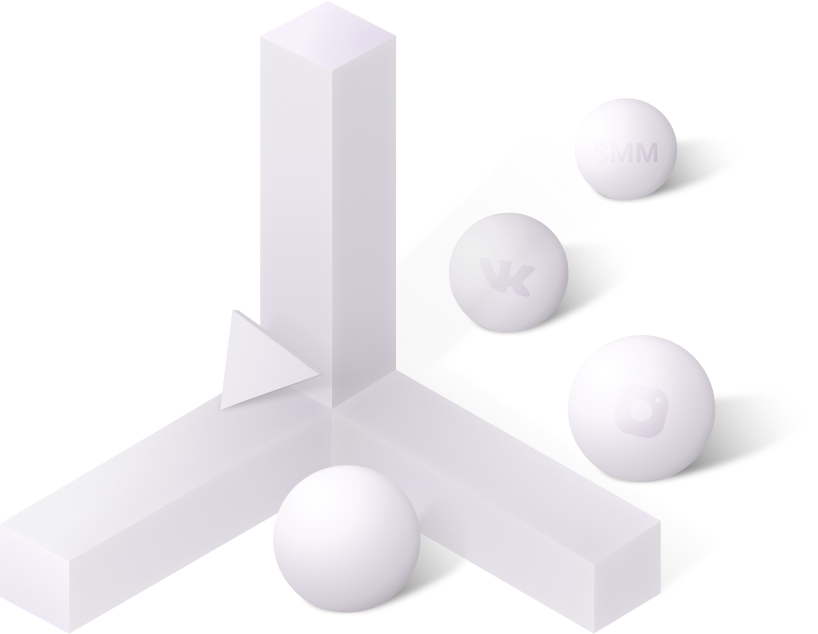
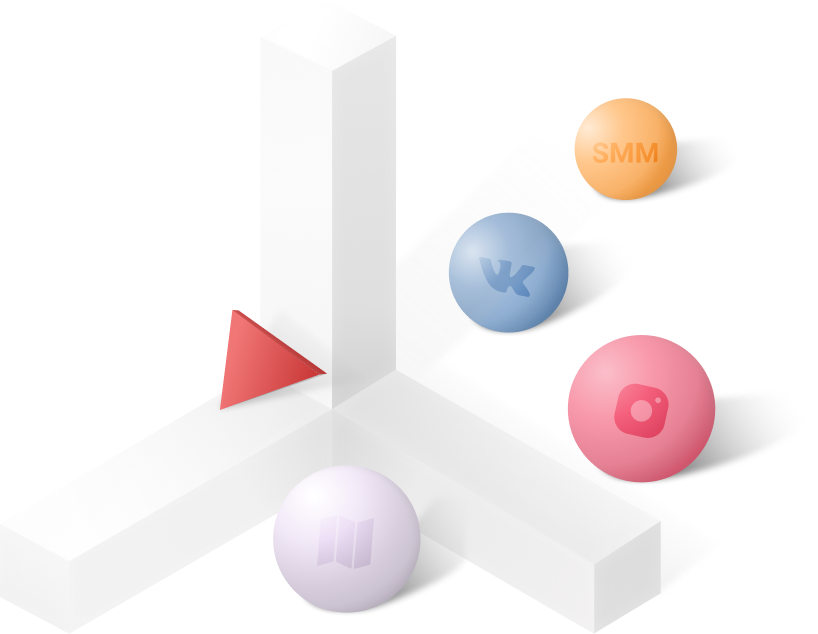
Промо бизнес
- Замена картинок
- Правка стилей

diff --git a/app/include/Promo/Busines/Logist/Logist.sass b/app/include/Promo/Busines/Logist/Logist.sass
@@ -2,6 +2,7 @@
 	background-image: url("images/Promo/Logist-Bg.png")
 	background-repeat: no-repeat
 	height: 790px
+	padding-top: 0
 	&-TextBlock
 		display: flex
 		align-items: center
@@ -11,6 +12,7 @@
 		width: 100%
 		height: 345px
 		backdrop-filter: blur(8px)
-		background-image: linear-gradient(to top, rgba(255, 255, 255, 0.65), rgba(255, 255, 255, 0.8) 46%, rgba(255, 255, 255, 0.65))
+		background-color: rgba(255, 255, 255, 0.8);
+		//background-image: linear-gradient(to top, rgba(255, 255, 255, 0.65), rgba(255, 255, 255, 0.8) 46%, rgba(255, 255, 255, 0.65))
 	&-Text
 		width: 765px

diff --git a/app/include/Promo/PromoBusines.sass b/app/include/Promo/PromoBusines.sass
@@ -2,7 +2,7 @@
 	&-Section
 		display: flex
 		align-items: center
-		justify-content: space-around
+		justify-content: center
 		padding-top: 60px
 		padding-bottom: 60px
 	&-Header
@@ -13,7 +13,7 @@
 		letter-spacing: 1.5px
 		color: rgb(79, 79, 79)
 		font-weight: 400
-		border-bottom: 3px solid #DED9E1
+		border-bottom: 3px solid #E3B1B1
 		padding-bottom: 10px
 	&-TextBlock
 		margin-left: 200px
@@ -28,5 +28,5 @@
 		font-family: 'Exo'
 		font-size: 19px
 		letter-spacing: 1px
-		color: rgb(151, 129, 161)
+		color: #D64B4B
 		text-decoration: none

diff --git a/app/include/content/catalog/catalog_asside/catalog__asside.js b/app/include/content/catalog/catalog_asside/catalog__asside.js
@@ -6,7 +6,12 @@ $( ".FilterTabs" ).tabs({
 });
 $('.FilterTabs-Label').change(function () {
         var color = $(this).find("span").css('color');
-
+        var chec = $(this).children('input').prop('checked');
+        if (chec) {
+            console.log('Выбран');
+        } else {
+            console.log('Отменен');
+        }
         if (color == 'rgb(189, 189, 189)') {
             $(this).find("span").css('color', 'rgb(130, 130, 130)');
         } else if (color == 'rgb(130, 130, 130)') {

diff --git a/app/include/content/catalog/catalog.js b/app/include/content/catalog/catalog.js
@@ -18,3 +18,14 @@ $( "#assideRange" ).slider({
 });
 $('#amountMin').val($( "#assideRange" ).slider( "values", 0 ));
 $('#amountMax').val($( "#assideRange" ).slider( "values", 1 ));
+
+/*
+
+$('.FilterTabs-Label').on('click', function () {
+    var chec = $(this).children('input').prop('checked');
+    if (chec) {
+        console.log('Выбран');
+    } else {
+	    console.log('Отменен');
+    }
+});*/

diff --git a/app/include/Promo/Busines/TCP/TCP.sass b/app/include/Promo/Busines/TCP/TCP.sass
@@ -2,3 +2,4 @@
 	background-image: url("images/Promo/TCP-Bg1.png"), url("images/Promo/TCP-Bg2.png"), url("images/Promo/TCP-Bg3.png")
 	background-position: left bottom, 359px -150px, 1720px -162px;
 	background-repeat: no-repeat, no-repeat, no-repeat
+	padding-bottom: 0

diff --git a/app/include/Promo/Busines/LKImage/LkImage.sass b/app/include/Promo/Busines/LKImage/LkImage.sass
@@ -1,3 +1,4 @@
 .LkImage
+	margin-bottom: 150px;
 	&-Image
 		box-shadow: 0px 10px 15px rgba(51, 51, 51, 0.3)

diff --git a/app/include/Promo/Busines/Training/Training.sass b/app/include/Promo/Busines/Training/Training.sass
@@ -1,4 +1,5 @@
 .Training
+	padding-top: 0
 	&-TextBlock
 		margin-left: 60px
 		margin-right: 100px

diff --git a/app/include/Promo/Busines/LK/Lk.sass b/app/include/Promo/Busines/LK/Lk.sass
@@ -1,4 +1,5 @@
 .Lk
+	padding-top: 0
 	&-TextBlock
 		margin-left: 60px
 		margin-right: 100px

diff --git a/app/include/Promo/Busines/Service/Service.sass b/app/include/Promo/Busines/Service/Service.sass
@@ -1,0 +1,2 @@
+.Service
+	padding-bottom: 0
